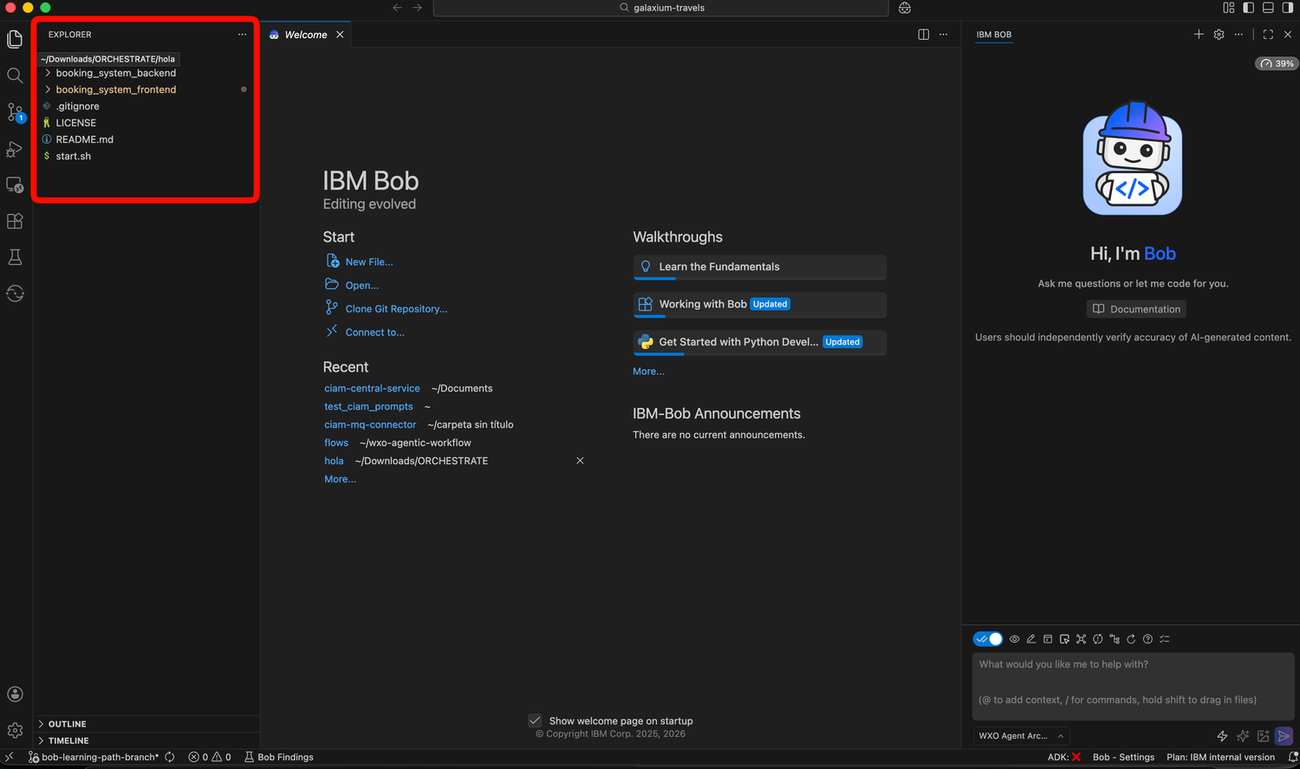
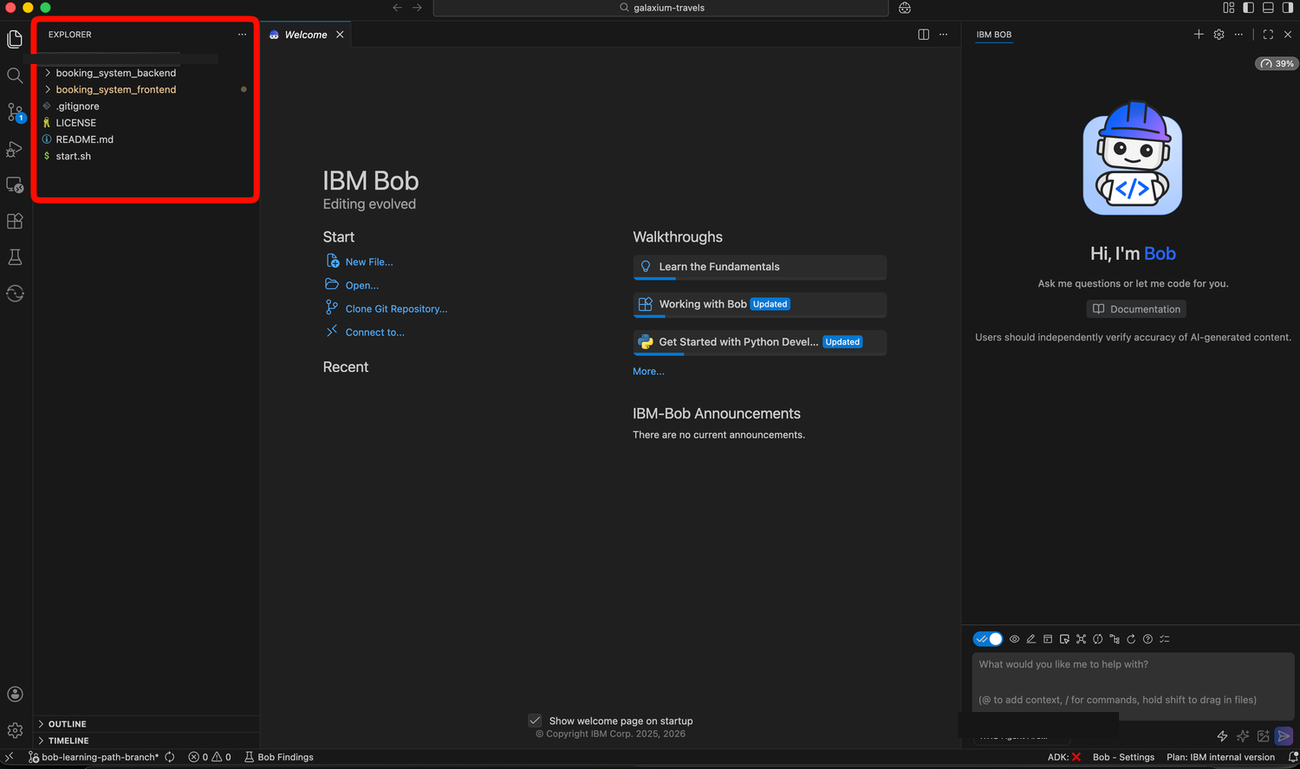
Capturas: tapar rutas/menciones internas ajenas a la guía; header 'siete labs'

Changed region(s): [[0.2462, 0.4993, 0.4, 0.6242], [0.7385, 0.9051, 0.8615, 0.9675], [0.0308, 0.0624, 0.1231, 0.0936]]

diff --git a/index.html b/index.html
@@ -475,7 +475,7 @@ const STATIC = {setup:"<div class=\"pre\">\n    <h2>0 · Antes de empezar (setup
     document.getElementById('home').innerHTML=
       '<div class="hero"><img class="heroimg" src="images/bob_wave.png" alt="Bob"><div class="kicker">IBM Bob · Level 3</div>'
       +'<h1>Guía práctica de labs</h1>'
-      +'<p class="lead">Cuatro módulos, ocho labs sobre la app <b>Galaxium Travels</b>. Elige por dónde empezar; tu progreso se guarda solo.</p>'
+      +'<p class="lead">Cuatro módulos, siete labs sobre la app <b>Galaxium Travels</b>. Elige por dónde empezar; tu progreso se guarda solo.</p>'
       +'<div class="ovprog"><div class="ovbar"><i id="ovfill"></i></div><span id="ovtxt"></span></div></div>'
       +'<div class="group">Empieza aquí</div><div class="cards">'+start+'</div>'
       +'<div class="group">Los módulos</div><div class="cards">'+mods+'</div>'